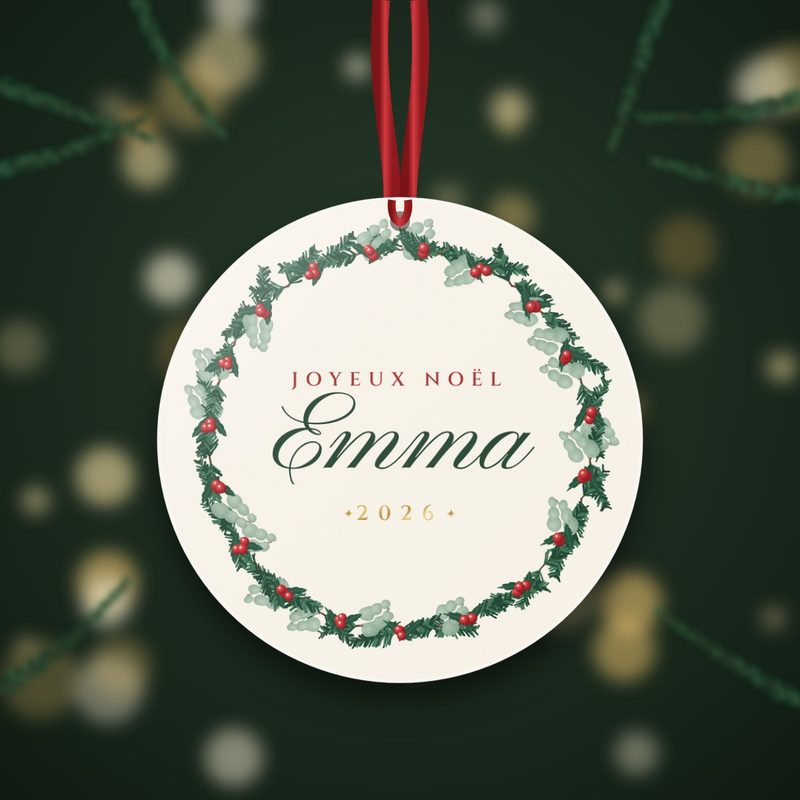
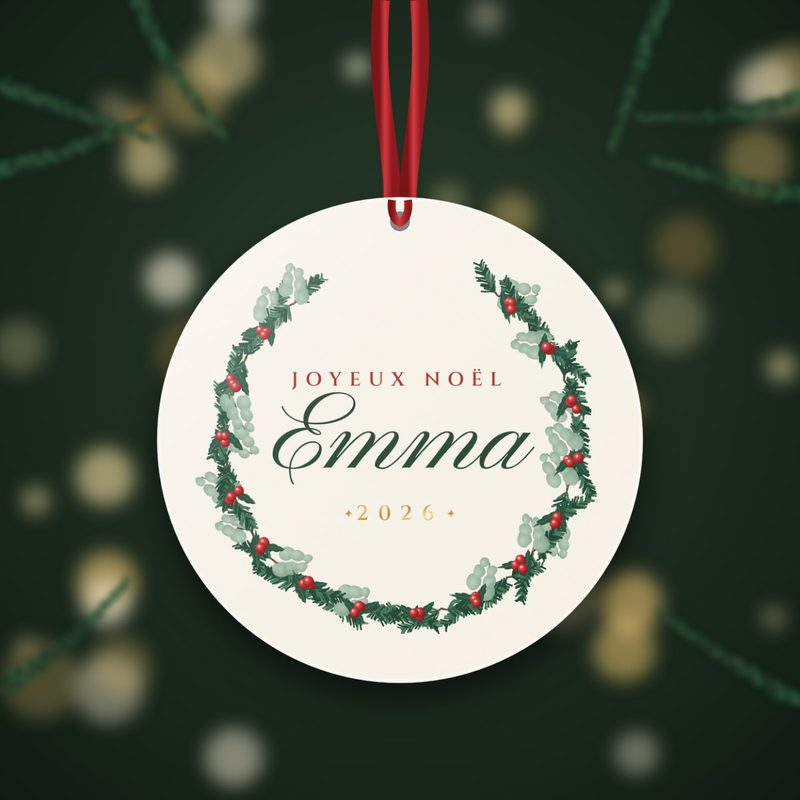
Corrige les médaillons : zone libre pour le trou et fond jusqu'au bord
Claude-Session: https://claude.ai/code/session_014GDdWm3BuH8EgZGK2oQs5J

Changed region(s): [[0.2188, 0.2812, 0.7812, 0.8125]]

diff --git a/designs/premium/generer-premium.js b/designs/premium/generer-premium.js
@@ -79,25 +79,25 @@ const T = {
   arcText: (id, t, size, fill, ls = .3) => `<text font-family="Cinzel" font-weight="600" font-size="${size}" letter-spacing="${size * ls}" fill="${fill}"><textPath href="#${id}" startOffset="50%" text-anchor="middle">${t}</textPath></text>`
 };
 const scriptSize = (n, base) => !n ? base : n.length > 10 ? base * .62 : n.length > 7 ? base * .78 : base;
-const paper = (bg) => `<circle cx="300" cy="300" r="300" fill="${bg}"/><rect width="600" height="600" filter="url(#grain)" clip-path="url(#disc)"/>`;
+const paper = (bg) => `<rect width="600" height="600" fill="${bg}"/><rect width="600" height="600" filter="url(#grain)"/>`;
 
 const DESIGNS = {
   // 1. Bébé
   'premier-noel-bebe': { name: 'Emma', f: n => { seed = 11; return `${paper('#fbf5ee')}
-    <circle cx="300" cy="300" r="282" fill="none" stroke="url(#gold)" stroke-width="2.5"/>
-    ${garland(300, 300, 236, 25, 155, 13)}
-    ${T.arc('a1', 205, true)}${T.arcText('a1', 'MON PREMIER NOËL', 27, '#3c5a46')}
-    ${sparkle(300, 150, 13)}${sparkle(262, 170, 6)}${sparkle(338, 170, 6)}
+    <circle cx="300" cy="300" r="262" fill="none" stroke="url(#gold)" stroke-width="2.5"/>
+    ${garland(300, 300, 212, 28, 152, 13)}
+    ${T.arc('a1', 168, true, 318)}${T.arcText('a1', 'MON PREMIER NOËL', 25, '#3c5a46')}
+    ${sparkle(300, 196, 11)}${sparkle(268, 212, 5)}${sparkle(332, 212, 5)}
     ${T.script(300, 318, n, scriptSize(n, 150), '#2c4a37')}
     ${T.caps(300, 392, '2026', 30, 'url(#gold)', .4)}`; } },
   // 2. Couple
   'notre-premier-noel': { name: 'Léa & Tom', f: n => { seed = 23; return `
     <defs><radialGradient id="night" cx=".5" cy=".42" r=".65"><stop offset="0" stop-color="#2d5a40"/><stop offset="1" stop-color="#132a1c"/></radialGradient></defs>
-    <circle cx="300" cy="300" r="300" fill="url(#night)"/><rect width="600" height="600" filter="url(#grain)" clip-path="url(#disc)" opacity=".7"/>
-    <circle cx="300" cy="300" r="276" fill="none" stroke="url(#gold)" stroke-width="3"/><circle cx="300" cy="300" r="266" fill="none" stroke="url(#gold)" stroke-width="1" opacity=".7"/>
-    ${pine(300, 92, 92, 200, { dark: '#4f8a63', light: '#83b892' })}${pine(300, 92, 92, -20, { dark: '#4f8a63', light: '#83b892' })}
-    ${holly(282, 104, 26, -35, '#3d7a55')}${holly(318, 104, 26, 35, '#3d7a55')}${berries(300, 98, 4, 8)}
-    ${T.caps(300, 196, 'NOTRE PREMIER NOËL', 22, 'url(#gold)', .32)}
+    <rect width="600" height="600" fill="url(#night)"/><rect width="600" height="600" filter="url(#grain)" opacity=".7"/>
+    <circle cx="300" cy="300" r="262" fill="none" stroke="url(#gold)" stroke-width="3"/><circle cx="300" cy="300" r="252" fill="none" stroke="url(#gold)" stroke-width="1" opacity=".7"/>
+    ${pine(300, 150, 80, 200, { dark: '#4f8a63', light: '#83b892' })}${pine(300, 150, 80, -20, { dark: '#4f8a63', light: '#83b892' })}
+    ${holly(284, 160, 24, -35, '#3d7a55')}${holly(316, 160, 24, 35, '#3d7a55')}${berries(300, 155, 4, 7.5)}
+    ${T.caps(300, 222, 'NOTRE PREMIER NOËL', 20, 'url(#gold)', .3)}
     ${T.script(300, 318, n, scriptSize(n, 118), '#fbf3e4')}
     <path d="M300 372c-14-14-30-4-22 10 5 9 22 18 22 18s17-9 22-18c8-14-8-24-22-10z" fill="url(#gold)"/>
     ${T.caps(300, 446, '2026', 28, 'url(#gold)', .45)}
@@ -110,17 +110,17 @@ const DESIGNS = {
     let trees = ''; for (const [x, s] of [[96, 1.1], [478, 1.2], [520, .8], [70, .8]]) trees += `<path d="M${x} ${470 - 90 * s}l${28 * s} ${44 * s}h${-12 * s}l${22 * s} ${36 * s}h${-76 * s}l${22 * s} ${-36 * s}h${-12 * s}z" fill="#163526"/><path d="M${x} ${470 - 90 * s}l${10 * s} ${16 * s}h${-20 * s}z" fill="#f6f1e6"/>`;
     let snow = ''; for (let i = 0; i < 70; i++) { const x = R(40, 560), y = R(40, 400); if (Math.hypot(x - 300, y - 300) < 290 && !(y > 200 && y < 330 && x > 110 && x < 490)) snow += `<circle cx="${x}" cy="${y}" r="${R(1.2, 3)}" fill="#fff" opacity="${R(.5, 1)}"/>`; }
     return `<defs><linearGradient id="sky" x1="0" y1="0" x2="0" y2="1"><stop offset="0" stop-color="#0f2236"/><stop offset=".7" stop-color="#284a63"/><stop offset="1" stop-color="#3f6680"/></linearGradient></defs>
-    <circle cx="300" cy="300" r="300" fill="url(#sky)"/>
+    <rect width="600" height="600" fill="url(#sky)"/>
     <circle cx="456" cy="142" r="26" fill="#f6efd8"/><circle cx="468" cy="134" r="24" fill="url(#sky)" opacity=".001"/>
     ${snow}${trees}${houses}
     <path d="M0 470 C 120 444 220 486 320 466 S 520 448 600 470 V600 H0Z" fill="#f6f1e6"/><path d="M0 500 C 150 486 300 512 600 492 V600 H0Z" fill="#e7ecef"/>
-    <circle cx="300" cy="300" r="284" fill="none" stroke="url(#gold)" stroke-width="3"/>
+    <circle cx="300" cy="300" r="262" fill="none" stroke="url(#gold)" stroke-width="3"/>
     ${T.caps(300, 196, 'LA FAMILLE', 26, '#f6f1e6', .45)}
     ${T.script(300, 300, n, scriptSize(n, 130), 'url(#gold)')}
-    ${T.caps(300, 548, 'NOËL 2026', 22, '#3f6680', .4)}`; } },
+    ${T.caps(300, 536, 'NOËL 2026', 20, '#3f6680', .4)}`; } },
   // 4. Prénom classique
   'prenom-couronne': { name: 'Emma', f: n => { seed = 5; return `${paper('#fbf6ec')}
-    ${garland(300, 300, 238, -90, 268, 12)}
+    ${garland(300, 300, 218, -56, 236, 12)}
     ${T.caps(300, 232, 'JOYEUX NOËL', 24, '#a3312f', .38)}
     ${T.script(300, 336, n, scriptSize(n, 140), '#24432f')}
     ${T.caps(300, 400, '2026', 26, 'url(#gold)', .45)}
@@ -158,7 +158,7 @@ function mockup(dataUrl) {
   for (const [k, d] of Object.entries(DESIGNS)) {
     for (const [suffix, n] of [['', d.name], ['-sans-prenom', '']]) {
       await p.setViewportSize({ width: 3000, height: 3000 });
-      await p.setContent(`<html><head>${FONTS}<style>html,body{margin:0;background:transparent}</style></head><body><svg xmlns="http://www.w3.org/2000/svg" viewBox="0 0 600 600" width="3000" height="3000">${DEFS}<g clip-path="url(#disc)">${d.f(n)}</g></svg></body></html>`);
+      await p.setContent(`<html><head>${FONTS}<style>html,body{margin:0;background:transparent}</style></head><body><svg xmlns="http://www.w3.org/2000/svg" viewBox="0 0 600 600" width="3000" height="3000">${DEFS}${d.f(n)}</svg></body></html>`);
       await p.evaluate(() => document.fonts.ready); await p.waitForTimeout(400);
       const file = `${OUT}${k}${suffix}.png`;
       await p.locator('svg').screenshot({ path: file, omitBackground: true });
